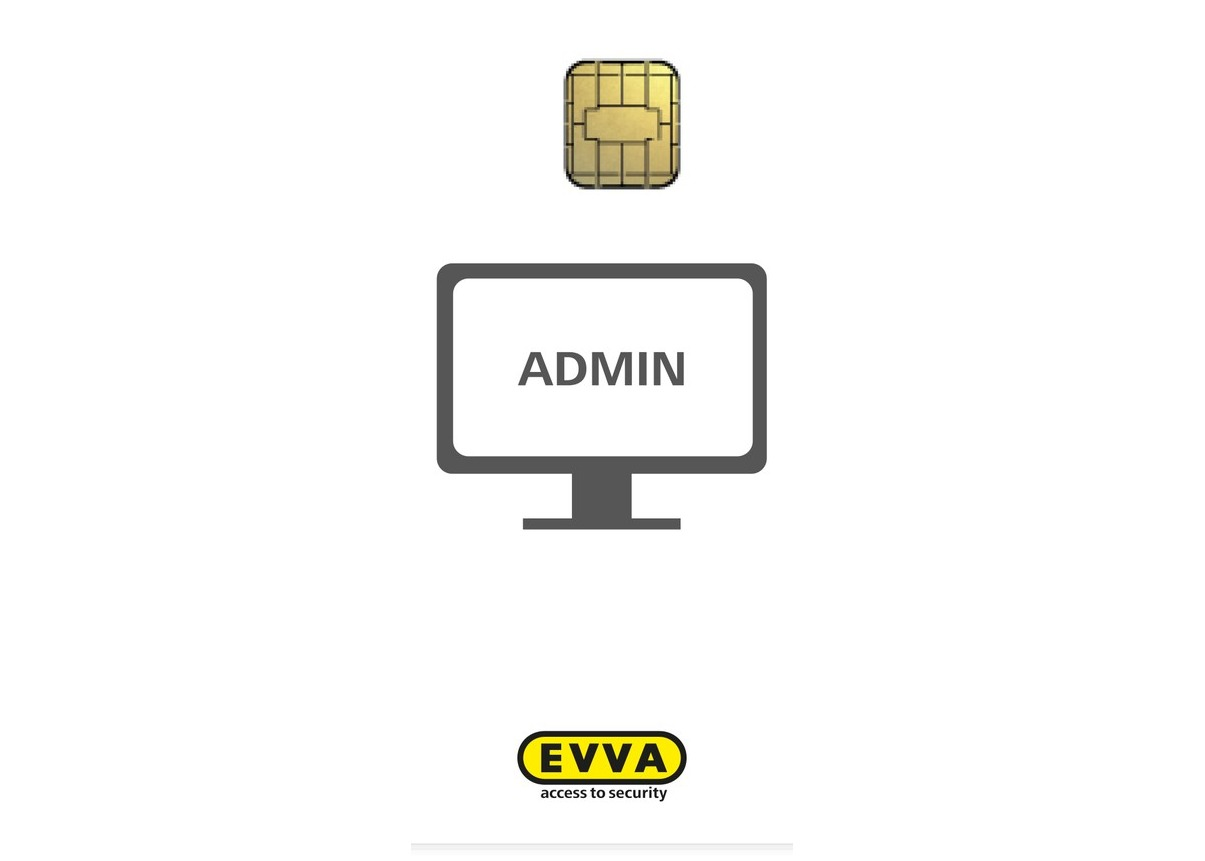
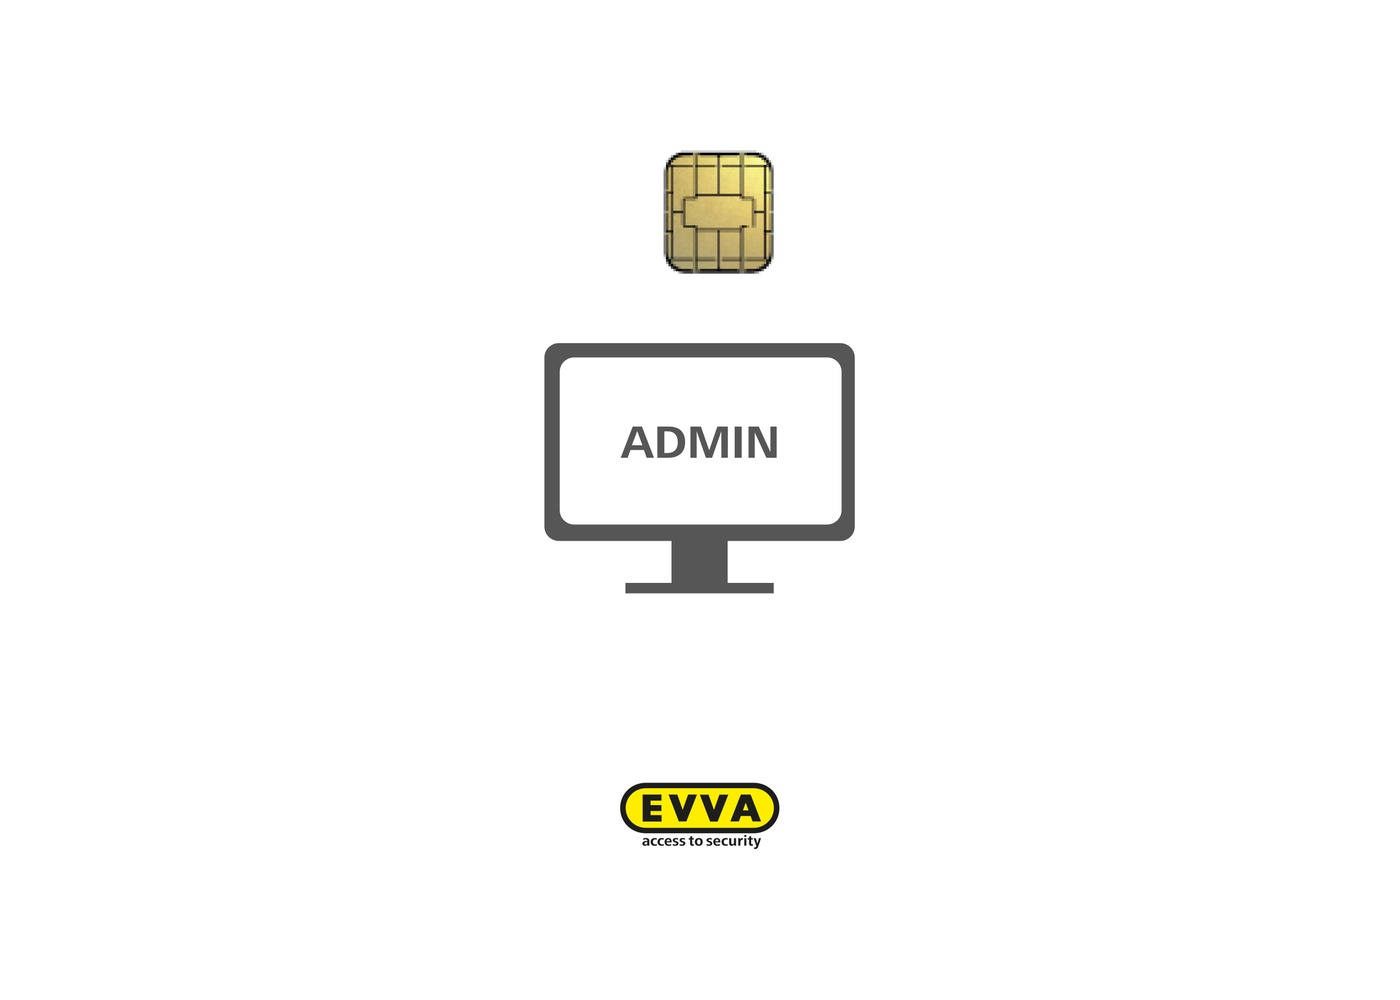
Xesar-lijn: alle zes producten op identieke schaal (74% van het kader) vanaf de originelen, kwaliteit behouden; witte rand boven de sectorillustraties weg (padding kaart__beeld); video's krijgen net als beelden een inhoudshash in de naam zodat vervangingen altijd direct bij bezoekers aankomen

Changed region(s): [[0.3378, 0.302, 0.6448, 0.6341], [0.4606, 0.0604, 0.5834, 0.2718], [0.4299, 0.7549, 0.5834, 0.9361]]

diff --git a/static/css/styles.css b/static/css/styles.css
@@ -217,7 +217,7 @@ section,.sectie{padding:var(--sectie) 0}
 .kaart__tekst{border-right:var(--lijndikte) solid var(--lijn)}
 .kaart:last-child .kaart__tekst{border-right:0}
 /* de wegen in de scènes lopen door van kaart naar kaart (Lars, 23-09-2026): beeldvakken raken elkaar, scheidingslijn alleen bij de tekst */
-.kaart__beeld{border-bottom:var(--lijndikte) solid var(--lijn);background:var(--paneel);padding:12px 0 0}
+.kaart__beeld{border-bottom:var(--lijndikte) solid var(--lijn);background:var(--paneel)}
 .kaart__beeld .iso{width:100%;height:auto}
 .kaart__tekst{padding:28px 28px 32px;display:flex;flex-direction:column;gap:12px;flex:1}
 .kaart__tekst h3{margin:0}

diff --git a/build.py b/build.py
@@ -477,13 +477,14 @@ def video(bestand, poster, alt, kop="Bekijk de video", onderschrift=None):
         _ONTBREKEND.append(bestand if not bronpad.exists() else poster)
         return ""
     uit = DIST / "static" / "video"; uit.mkdir(parents=True, exist_ok=True)
-    shutil.copy(bronpad, uit / bestand)
+    videonaam = f"{bronpad.stem}-{hashlib.md5(bronpad.read_bytes()).hexdigest()[:8]}{bronpad.suffix}"   # /static/ wordt lang gecachet
+    shutil.copy(bronpad, uit / videonaam)
     mime = "video/webm" if bestand.endswith(".webm") else "video/mp4"
     poster_html = beeld(poster, alt, sizes="(min-width: 900px) 66vw, 100vw")
     bijschrift = f"<figcaption>{esc(onderschrift)}</figcaption>" if onderschrift else ""
     return (f'<figure class="video" data-video>'
             f'<button type="button" class="video__start" aria-label="{esc(kop)}">{poster_html}<span class="video__knop">{esc(kop)}</span></button>'
-            f'<video controls preload="none" playsinline hidden width="1600" height="1067"><source src="/static/video/{bestand}" type="{mime}"></video>'
+            f'<video controls preload="none" playsinline hidden width="1600" height="1067"><source src="/static/video/{videonaam}" type="{mime}"></video>'
             f'{bijschrift}</figure>')
 
 XESAR_VIDEO = "rAH27xzXeXI"   # EVVA Xesar, YouTube-kanaal van EVVA (Lars, 27-09-2026; gebruik aangevraagd bij EVVA)
@@ -551,8 +552,9 @@ def xesar_lokaal():
     bron = BRON / XESAR_BESTAND
     if not bron.exists(): return None
     uit = DIST / "static" / "video"; uit.mkdir(parents=True, exist_ok=True)
-    if not (uit / XESAR_BESTAND).exists(): shutil.copy(bron, uit / XESAR_BESTAND)
-    return f"/static/video/{XESAR_BESTAND}"
+    naam = f"{bron.stem}-{hashlib.md5(bron.read_bytes()).hexdigest()[:8]}{bron.suffix}"
+    if not (uit / naam).exists(): shutil.copy(bron, uit / naam)
+    return f"/static/video/{naam}"
 
 def youtube(video_id, titel, ondertitel=""):
     """YouTube op klik: tot de klik wordt niets van YouTube geladen (snel, geen cookies vooraf). Poster en eindscherm in de huisstijl,

diff --git a/content/kennisbank.py b/content/kennisbank.py
@@ -229,7 +229,7 @@ ARTIKELEN = [
 def _video_ld(slug, naam, titel, omschrijving, duur):
     pad = f"{PAD}{slug}/"
     return {"@type": "VideoObject", "@id": SITE + pad + "#" + naam, "name": titel, "description": omschrijving,
-            "contentUrl": SITE + f"/static/video/{naam}.mp4", "thumbnailUrl": SITE + f"/static/img/{beeldnaam(BRON / (naam + '-poster.jpg'))}-800.webp",
+            "contentUrl": SITE + f"/static/video/{naam}-{hashlib.md5((BRON / (naam + '.mp4')).read_bytes()).hexdigest()[:8]}.mp4", "thumbnailUrl": SITE + f"/static/img/{beeldnaam(BRON / (naam + '-poster.jpg'))}-800.webp",
             "uploadDate": "2026-10-01", "duration": duur, "inLanguage": "en",
             "author": {"@type": "Organization", "name": "EVVA Sicherheitstechnologie"}, "publisher": {"@id": ORG_ID},
             "isPartOf": {"@id": SITE + pad + "#webpage"}}
